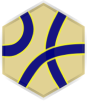
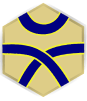
fixed tiles rotation

diff --git a/src/main/kotlin/view/GameScene.kt b/src/main/kotlin/view/GameScene.kt
@@ -22,7 +22,6 @@ import view.components.Label
 
 class GameScene(val indigoApp: IndigoApplication) :
     BoardGameScene(1920, 1080, background = ImageVisual("PlainBackground_FCE6BD.png")), Refreshable {
-
         private val gemMap: BidirectionalMap<Gem,Label> = BidirectionalMap()
     private val rootService = indigoApp.rootService
     private var rotationDegree = 0
@@ -126,13 +125,14 @@ class GameScene(val indigoApp: IndigoApplication) :
     // PlayerHandTile components
     // player1 oben links player2 oben rechts player3 unten links player4 unten rechts
     private var player1handTile = HexagonView(posX = 122, posY = 184, size = 70.0, visual = ImageVisual("tile1.png"))
-        .apply { rotate(30) }
+        .apply { rotate(-30)}
     private var player2handTile = HexagonView(posX = 1611, posY = 184, size = 70.0, visual = ImageVisual("tile1.png"))
-        .apply { rotate(30) }
+        .apply { rotate(-30) }
     private var player3handTile = HexagonView(posX = 122, posY = 754, size = 70.0, visual = ImageVisual("tile1.png"))
-        .apply { rotate(30) }
-    private var player4handTile = HexagonView(posX = 1611, posY = 754, size = 70.0, visual = ImageVisual("tile1.png"))
-        .apply { rotate(30) }
+        .apply { rotate(-30)}
+            private var player4handTile = HexagonView(posX = 1611, posY = 754, size = 70.0, visual = ImageVisual("tile1.png"))
+        .apply { rotate(-30)}
+
 
     // PlayerturnHighlight components (currentPlayer bekommt einen blauen Hintergrund (egal welcher Player))
     private val player1turnHighlight =
@@ -220,6 +220,7 @@ class GameScene(val indigoApp: IndigoApplication) :
      * Initializes the GameScene with default values and sets up the hexagonal grid.
      */
     init {
+
         initializeGameBoardGrid()
         //hexagonGrid.rotate(60)
         hexagonGrid.reposition(910, 380)
@@ -384,7 +385,6 @@ class GameScene(val indigoApp: IndigoApplication) :
             player4rightButton,
             player4checkButton
         )
-
     }
 
     /**
@@ -749,8 +749,6 @@ class GameScene(val indigoApp: IndigoApplication) :
         val currentGame = indigoApp.rootService.currentGame
         checkNotNull(currentGame)
         val players = currentGame.players
-        //val currentIndex = currentGame.currentPlayerIndex
-        //val currentHandTile = players[currentIndex].handTile
         for(i in players.indices ) {
             if (players[i].handTile == null) {
                 playerTile[i].isVisible = false
@@ -758,8 +756,9 @@ class GameScene(val indigoApp: IndigoApplication) :
                 playerTile[i].visual = players[i].handTile!!.type.toImg()
                 playerTile[i].isVisible = true
                 for (tile in playerTile) {
-                    tile.rotationProperty.value = 30.0
+                   tile.rotationProperty.value = -30.0
                 }
+
             }
         }
     }
@@ -826,16 +825,10 @@ class GameScene(val indigoApp: IndigoApplication) :
 
         val game = indigoApp.rootService.currentGame
         checkNotNull(game) { "No game found." }
-
-        //checkNotNull(tileToPlace) { "keine Ahnung wie" }
-        //tileToPlace!!.rotate(rotationDegree)
-        //hexagonGrid[col, row] = tileToPlace!! //wie kann es null sein
-
-        //rotationDegree = 0
-
-        //tileToPlace = null
-        hexagonGrid[col, row] =
-            HexagonView(size = 55.0, visual = tile.type.toImg()).apply { rotate(60 * rotationDegree) }
+        hexagonGrid[col,row] =
+            HexagonView(size = 55.0, visual = tile.type.toImg()).apply {
+                rotate(-60)
+                rotate(60 * rotationDegree) }
     }
 
     /**
@@ -872,8 +865,7 @@ class GameScene(val indigoApp: IndigoApplication) :
     private fun callPlaceTile(tile: Tile) {
         checkNotNull(chosenPlace) { "Please, choose space on the board and press ✓" }
 
-        val coordinates = Coordinate(chosenRow!!, chosenCol!!)
-        //tileToPlace= HexagonView(visual = tile.type.toImg())
+        val coordinates = Coordinate(chosenRow!!,chosenCol!!)
         rootService.playerTurnService.placeRouteTile(coordinates, tile)
     }
 
